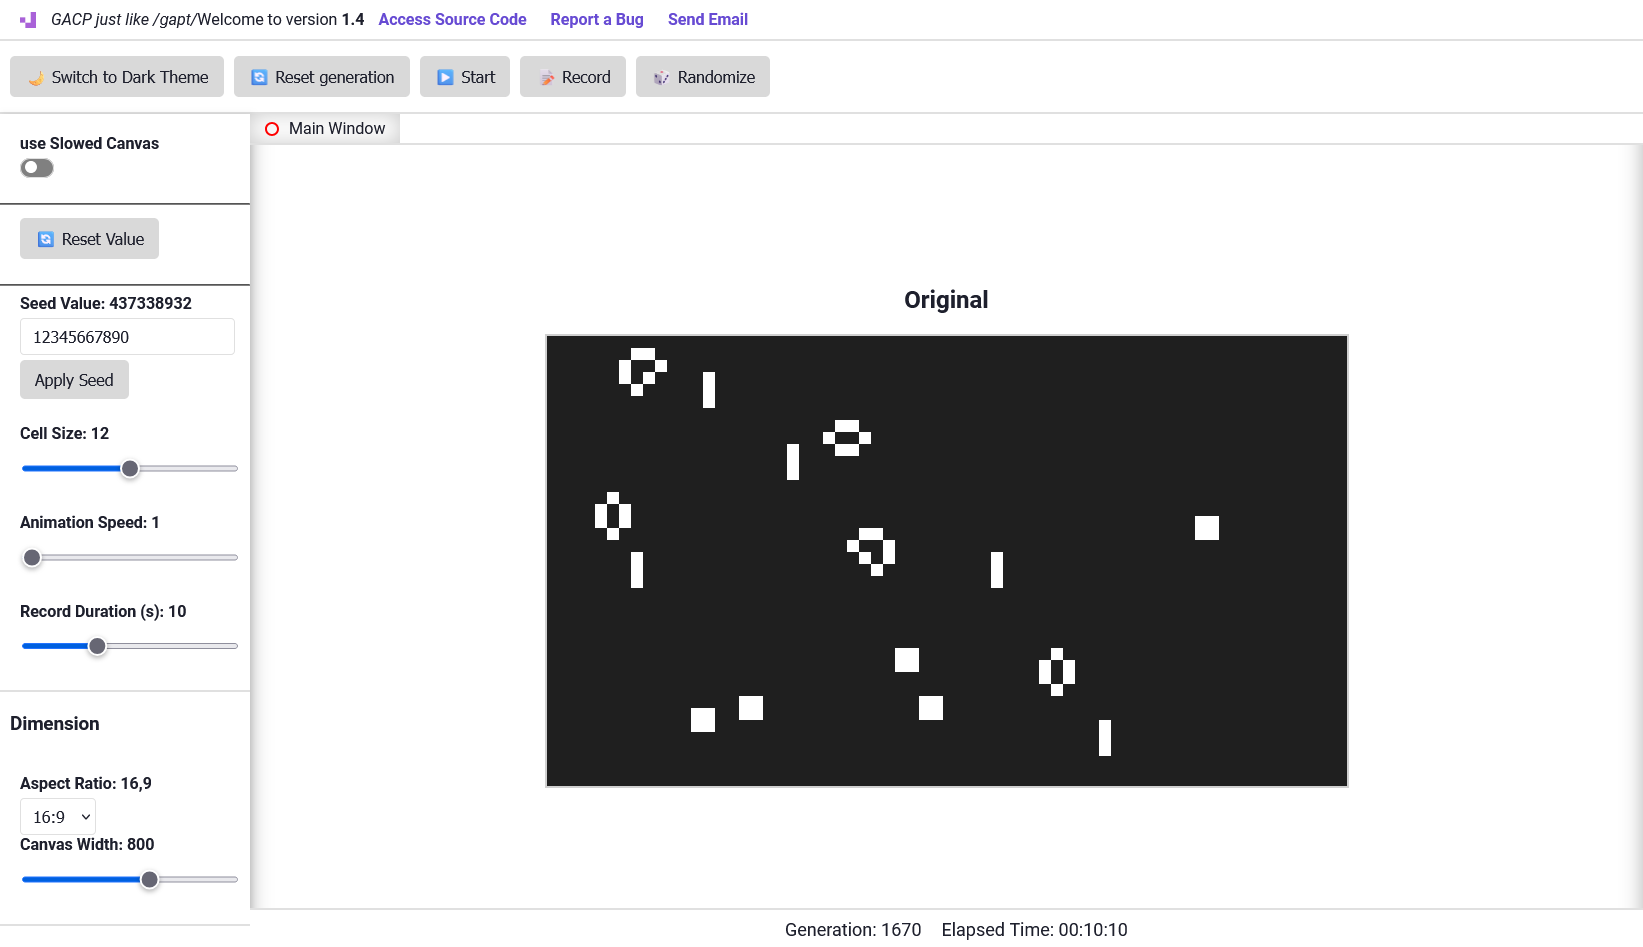
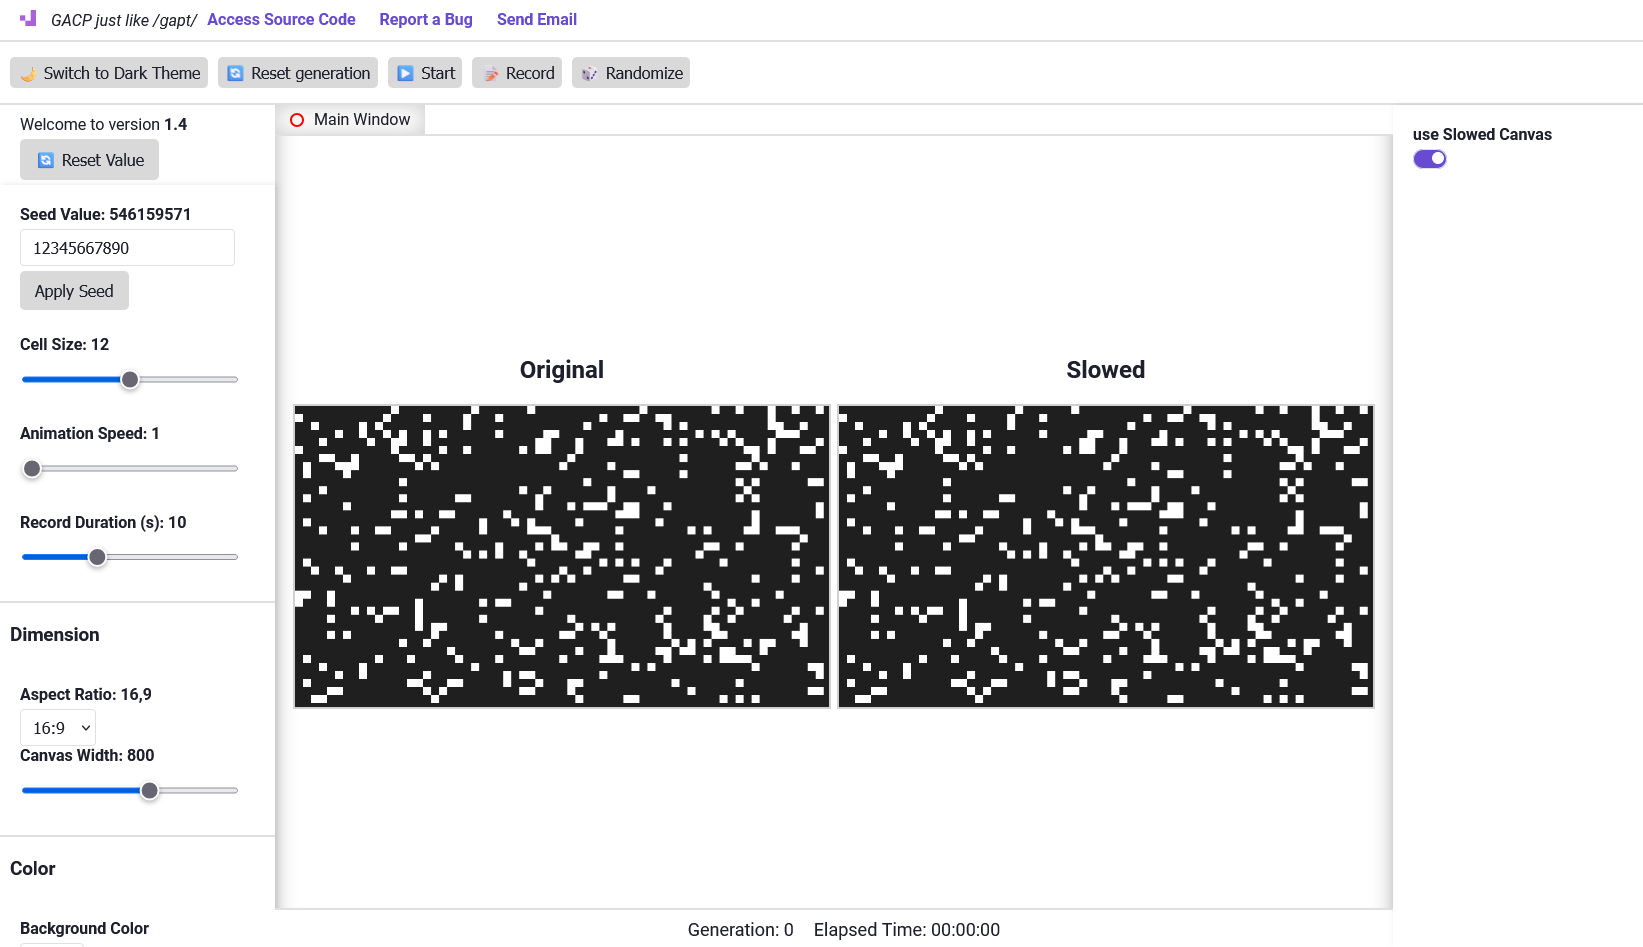
minor fix on UI UX
done some change on UI still messy but I'm working on

Changed region(s): [[0.0, 0.0, 1.0, 1.0], [0.9933, 0.1531, 1.0, 0.9799], [0.4035, 0.9493, 0.6829, 1.0]]

diff --git a/app.html b/app.html
@@ -13,11 +13,12 @@
 <body>
 <header>
     <div class="header-logo">
-        <img src="img/logo/favicon-16x16.png" alt="Generative Art Logo" class="logo">
+        <a href="#" id="refreshLink">
+            <img src="img/logo/favicon-16x16.png" alt="Generative Art Logo" class="logo">
+        </a>
         <em>GACP just like /ɡapt/</em>
     </div>
     <nav class="header-nav">
-        <span>Welcome to version <strong>1.4</strong></span>
         <a href="https://github.com/strawberry-development/generative-art-cellular-patterns">Access Source Code</a>
         <a href="https://github.com/strawberry-development/generative-art-cellular-patterns/issues/new">Report a Bug</a>
         <a href="mailto:strawberry-development@protonmail.com">Send Email</a>
@@ -36,98 +37,91 @@
 </nav>
 
 <main class="main-container">
-    <aside class="sidebar">
-        <section class="controls">
-            <div class="control-group">
-                <label for="showSlowedCanvas">use Slowed Canvas</label>
-                <label class="switch">
-                    <input type="checkbox" id="showSlowedCanvas">
-                    <span class="slider"></span>
-                </label>
-            </div>
+    <div style="display: grid;">
+        <div style="padding-top: 10px;padding-left: 20px;">
+            <span>Welcome to version <strong>1.4</strong></span>
+            <button id="resetConfig">🔄 Reset Value</button>
+        </div>
 
-            <hr>
+        <aside class="sidebar">
+            <section class="controls">
+                <div class="control-group">
+                    <label for="seedInput">Seed Value: <span id="seedValue"></span></label>
+                    <input type="text" id="seedInput" placeholder="Enter a new seed value">
+                    <button onclick="seedApply()">Apply Seed</button>
+                </div>
 
-            <div class="control-group">
-                <button id="resetConfig">🔄 Reset Value</button>
-            </div>
+                <div class="control-group">
+                    <label for="cellSize">Cell Size: <span id="cellSizeValue">Loading...</span></label>
+                    <input type="range" id="cellSize" min="4" max="20" value="12">
+                </div>
 
-            <hr>
+                <div class="control-group">
+                    <label for="animationSpeed">Animation Speed: <span
+                            id="animationSpeedValue">Loading...</span></label>
+                    <input type="range" id="animationSpeed" min="1" max="10" value="1">
+                </div>
 
-            <div class="control-group">
-                <label for="seedInput">Seed Value: <span id="seedValue"></span></label>
-                <input type="text" id="seedInput" placeholder="Enter a new seed value">
-                <button onclick="seedApply()">Apply Seed</button>
-            </div>
+                <div class="control-group">
+                    <label for="recordDuration">Record Duration (s): <span
+                            id="recordDurationValue">Loading...</span></label>
+                    <input type="range" id="recordDuration" min="5" max="20" value="10">
+                </div>
 
-            <div class="control-group">
-                <label for="cellSize">Cell Size: <span id="cellSizeValue">Loading...</span></label>
-                <input type="range" id="cellSize" min="4" max="20" value="12">
-            </div>
+                <h3>Dimension</h3>
+                <div class="control-group">
+                    <label for="aspectRatio">Aspect Ratio: <span id="aspectRatioValue">Loading...</span></label>
+                    <select id="aspectRatio">
+                        <option value="16/9">16:9</option>
+                        <option value="4/3">4:3</option>
+                        <option value="1/1">1:1</option>
+                    </select>
+                    <label for="canvasWidth">Canvas Width: <span id="canvasWidthValue">Loading...</span></label>
+                    <input type="range" id="canvasWidth" min="200" max="1200" value="800">
+                </div>
 
-            <div class="control-group">
-                <label for="animationSpeed">Animation Speed: <span id="animationSpeedValue">Loading...</span></label>
-                <input type="range" id="animationSpeed" min="1" max="10" value="1">
-            </div>
+                <h3>Color</h3>
+                <div class="control-group">
+                    <label for="backgroundColor">Background Color</label>
+                    <input type="color" id="backgroundColor" value="#1f1f1f">
+                    <label for="colorPalette">Color Palette:</label>
+                    <select id="colorPalette">
+                        <option value="blackWhite">Black & White</option>
+                        <option value="grey">Grey</option>
+                        <option value="random">Random Colors</option>
+                        <option value="warm">Warm Colors</option>
+                        <option value="cold">Cold Colors</option>
+                        <option value="pastel">Spring Beauty Colors</option>
+                        <option value="neon">Neon Colors</option>
+                        <option value="earth">Earth Colors</option>
+                        <option value="ocean">Ocean Colors</option>
+                        <option value="sunset">Sunset Colors</option>
+                        <option value="forest">Forest Colors</option>
+                    </select>
+                </div>
 
-            <div class="control-group">
-                <label for="recordDuration">Record Duration (s): <span id="recordDurationValue">Loading...</span></label>
-                <input type="range" id="recordDuration" min="5" max="20" value="10">
-            </div>
-
-            <h3>Dimension</h3>
-            <div class="control-group">
-                <label for="aspectRatio">Aspect Ratio: <span id="aspectRatioValue">Loading...</span></label>
-                <select id="aspectRatio">
-                    <option value="16/9">16:9</option>
-                    <option value="4/3">4:3</option>
-                    <option value="1/1">1:1</option>
-                </select>
-                <label for="canvasWidth">Canvas Width: <span id="canvasWidthValue">Loading...</span></label>
-                <input type="range" id="canvasWidth" min="200" max="1200" value="800">
-            </div>
-
-            <h3>Color</h3>
-            <div class="control-group">
-                <label for="backgroundColor">Background Color</label>
-                <input type="color" id="backgroundColor" value="#1f1f1f">
-                <label for="colorPalette">Color Palette:</label>
-                <select id="colorPalette">
-                    <option value="blackWhite">Black & White</option>
-                    <option value="grey">Grey</option>
-                    <option value="random">Random Colors</option>
-                    <option value="warm">Warm Colors</option>
-                    <option value="cold">Cold Colors</option>
-                    <option value="pastel">Spring Beauty Colors</option>
-                    <option value="neon">Neon Colors</option>
-                    <option value="earth">Earth Colors</option>
-                    <option value="ocean">Ocean Colors</option>
-                    <option value="sunset">Sunset Colors</option>
-                    <option value="forest">Forest Colors</option>
-                </select>
-            </div>
-
-            <h3>Rule</h3>
-            <div class="control-group">
-                <label for="surviveRules">Survive Rules (comma-separated):</label>
-                <input type="text" id="surviveRules" value="2,3">
-                <label for="birthRules">Birth Rules (comma-separated):</label>
-                <input type="text" id="birthRules" value="3">
-            </div>
+                <h3>Rule</h3>
+                <div class="control-group">
+                    <label for="surviveRules">Survive Rules (comma-separated):</label>
+                    <input type="text" id="surviveRules" value="2,3">
+                    <label for="birthRules">Birth Rules (comma-separated):</label>
+                    <input type="text" id="birthRules" value="3">
+                </div>
 
 
-            <!--
-            <h3>Output</h3>
-            <div class="control-group">
-                <label for="videoFormat">Video Format</label>
-                <select id="videoFormat">
-                    <option value="webm">WebM</option>
-                    <option value="mp4">MP4</option>
-                </select>
-            </div>
-            -->
-        </section>
-    </aside>
+                <!--
+                <h3>Output</h3>
+                <div class="control-group">
+                    <label for="videoFormat">Video Format</label>
+                    <select id="videoFormat">
+                        <option value="webm">WebM</option>
+                        <option value="mp4">MP4</option>
+                    </select>
+                </div>
+                -->
+            </section>
+        </aside>
+    </div>
 
     <aside class="main-window">
         <nav>
@@ -150,6 +144,23 @@
             <span>Generation: <span id="generationCount">0</span></span>
             <span>Elapsed Time: <span id="elapsedTime">00:00:00</span></span>
         </footer>
+    </aside>
+
+    <aside class="sidebar">
+        <section class="controls">
+            <div class="control-group">
+                <label for="showSlowedCanvas">use Slowed Canvas</label>
+                <label class="switch">
+                    <input type="checkbox" id="showSlowedCanvas">
+                    <span class="slider"></span>
+                </label>
+            </div>
+
+            <!--<h3>Navigator</h3>
+            <div class="control-group">
+
+            </div>-->
+        </section>
     </aside>
 </main>
 

diff --git a/css/styles.css b/css/styles.css
@@ -3,14 +3,17 @@
     --panel: #ffffff;
     --border-color: #e0e0e0;
 
+    --text-color: #1e202d;
+    --link-color: #674bd3;
+    --title-color: #1e202d;
+
     --button-background-color: #d9d9d9;
     --button-hover-background-color: #a8a8a8;
     --input-background-color: #ffffff;
     --input-border-color: #e0e0e0;
     --input-focus-border-color: #674bd3;
     --input-text-color: #1e202d;
-    --text-color: #1e202d;
-    --link-color: #674bd3;
+
     --canvas-border-color: #d0d0d0;
 }
 
@@ -18,8 +21,10 @@
     --background-color: #1c1a25;
     --panel: #1c1a25;
     --border-color: #272530;
+
     --text-color: #abaaaf;
     --title-color: #fff;
+    --link-color: #a962d8;
 
     --button-background-color: #3b3b3b;
     --button-hover-background-color: #505050;
@@ -27,7 +32,7 @@
     --input-border-color: #444444;
     --input-focus-border-color: #a962d8;
     --input-text-color: #e0e0e0;
-    --link-color: #a962d8;
+
     --canvas-border-color: #555555;
 }
 
@@ -77,7 +82,7 @@ header {
 }
 
 .main-nav button {
-    padding: 10px 15px;
+    padding: 5px 7px;
     font-size: 16px;
     cursor: pointer;
     background-color: var(--button-background-color);
@@ -99,7 +104,7 @@ main {
 
 .sidebar {
     background-color: var(--panel);
-    width: 250px;
+    width: 275px;
     min-width: 250px;
     box-shadow: 2px 0 5px rgba(0, 0, 0, 0.1);
     overflow-y: auto;
@@ -181,6 +186,10 @@ button:hover {
     width: fit-content;
 }
 
+.windows:hover {
+    cursor: pointer;
+}
+
 .canvas-container {
     display: flex;
     gap: 10px;
@@ -195,6 +204,7 @@ button:hover {
     display: flex;
     flex-direction: column;
     align-items: center;
+    max-height: 100%;
 }
 
 canvas {

diff --git a/js/ui/controls.js b/js/ui/controls.js
@@ -158,6 +158,11 @@ function updateCanvas(size = false, initFlag = false, seed = null) {
     draw(slowedCtx);
 }
 
+document.getElementById('refreshLink').addEventListener('click', function(event) {
+    event.preventDefault();
+    location.reload();
+});
+
 document.getElementById('resetConfig').addEventListener('click', () => {
     reset();
 });
